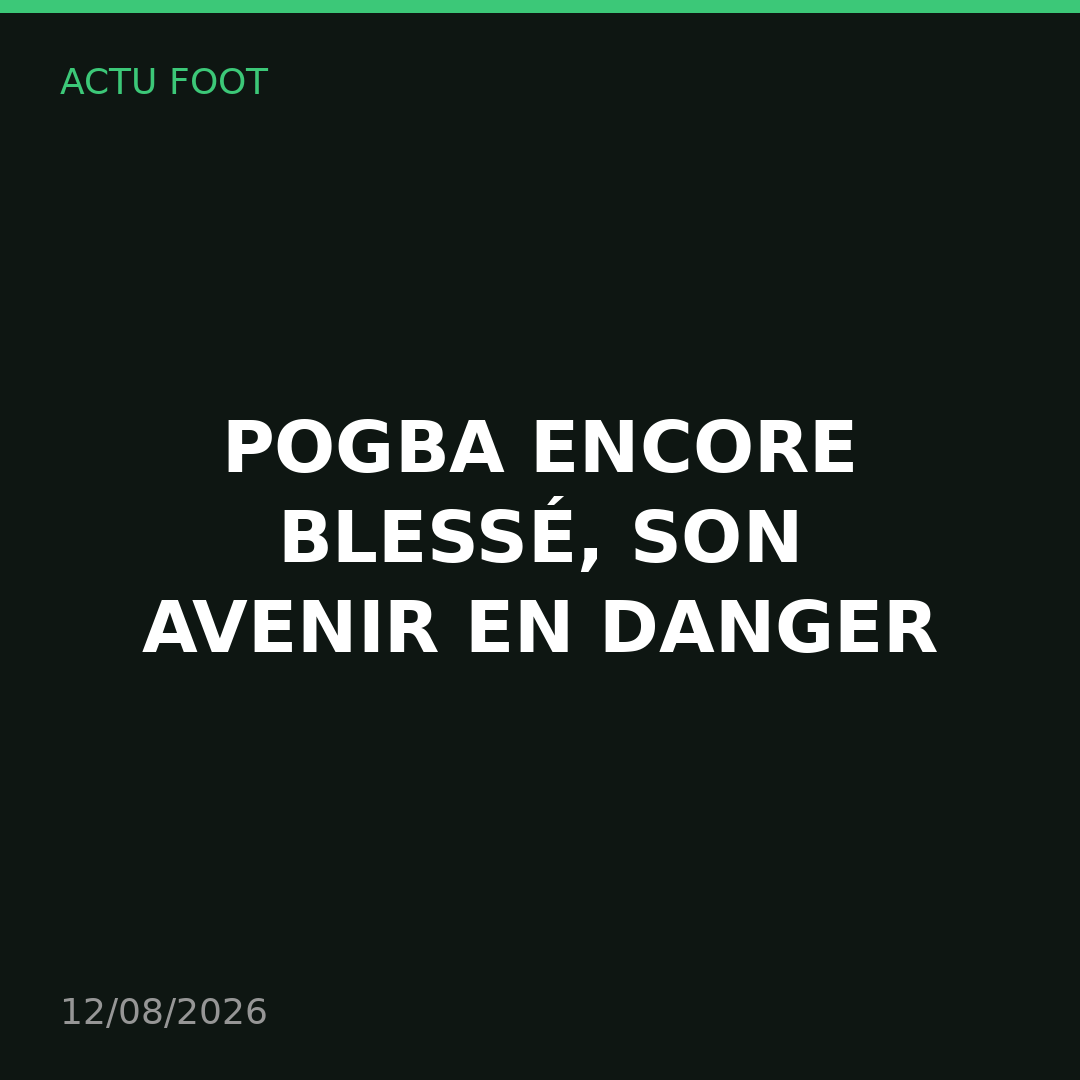
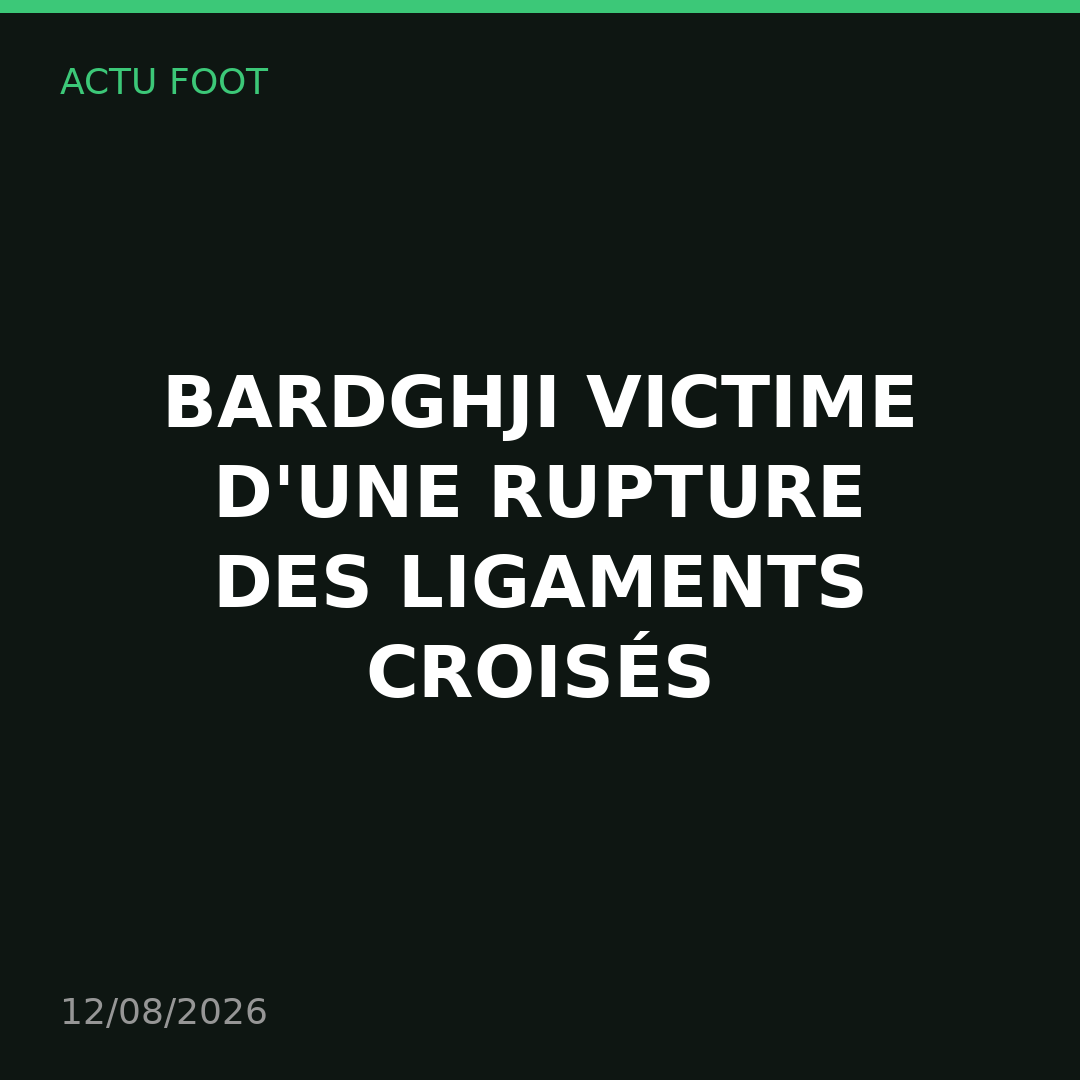
Post foot pret

Changed region(s): [[0.1222, 0.3361, 0.8861, 0.6722]]

diff --git a/posts_log.md b/posts_log.md
@@ -57,3 +57,18 @@ Comme si ça ne suffisait pas, Nice-Matin révèle que la direction monégasque 
 #Pogba #ASMonaco #Ligue1 #Mercato #Football
 
 Source : Sud Radio / Nice-Matin / 20 Minutes
+
+
+## 2026-08-12 09:41 UTC
+
+💔 COUP DUR POUR LE BARÇA !
+
+Roony Bardghji (20 ans) ne jouera pas de sitôt. Le FC Barcelone a officiellement confirmé ce mardi que l'ailier suédois souffre d'une rupture du ligament croisé antérieur du genou droit. Une opération est prévue dans les prochains jours.
+
+Absent au minimum 6 à 7 mois, Bardghji voit sa saison s'arrêter avant même d'avoir commencé. Pire encore : il ne pourra pas être prêté cet été comme il le souhaitait, et les clubs qui le ciblaient devront se tourner ailleurs.
+
+Une terrible tuile pour le Blaugrana, déjà actif sur le mercato. 😔
+
+#Bardghji #FCBarcelone #Barca #Blessure #Mercato
+
+Source : FC Barcelona / Maxifoot / Footmercato
